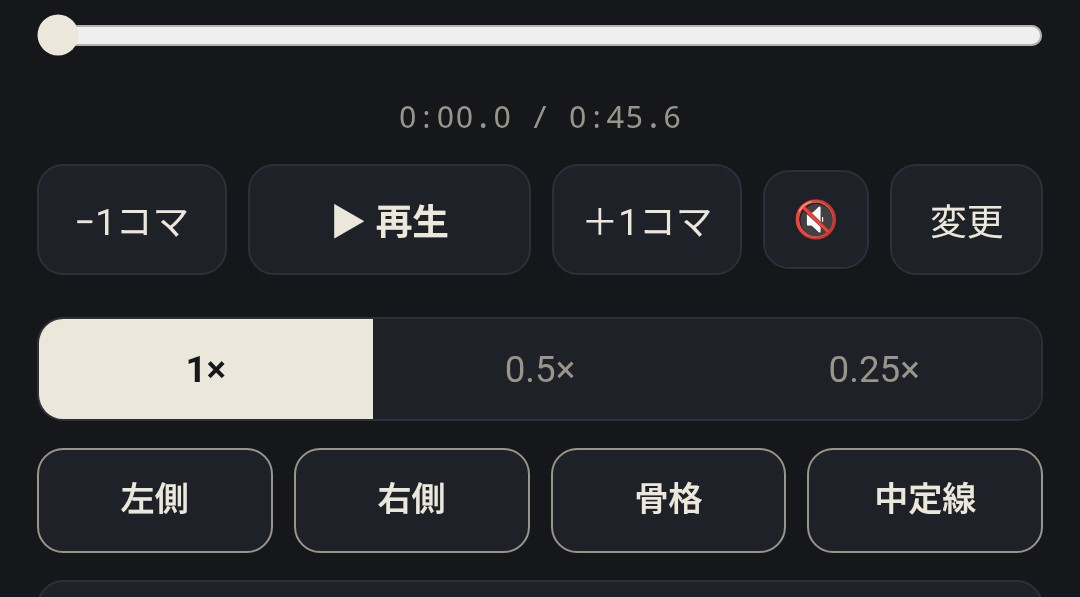
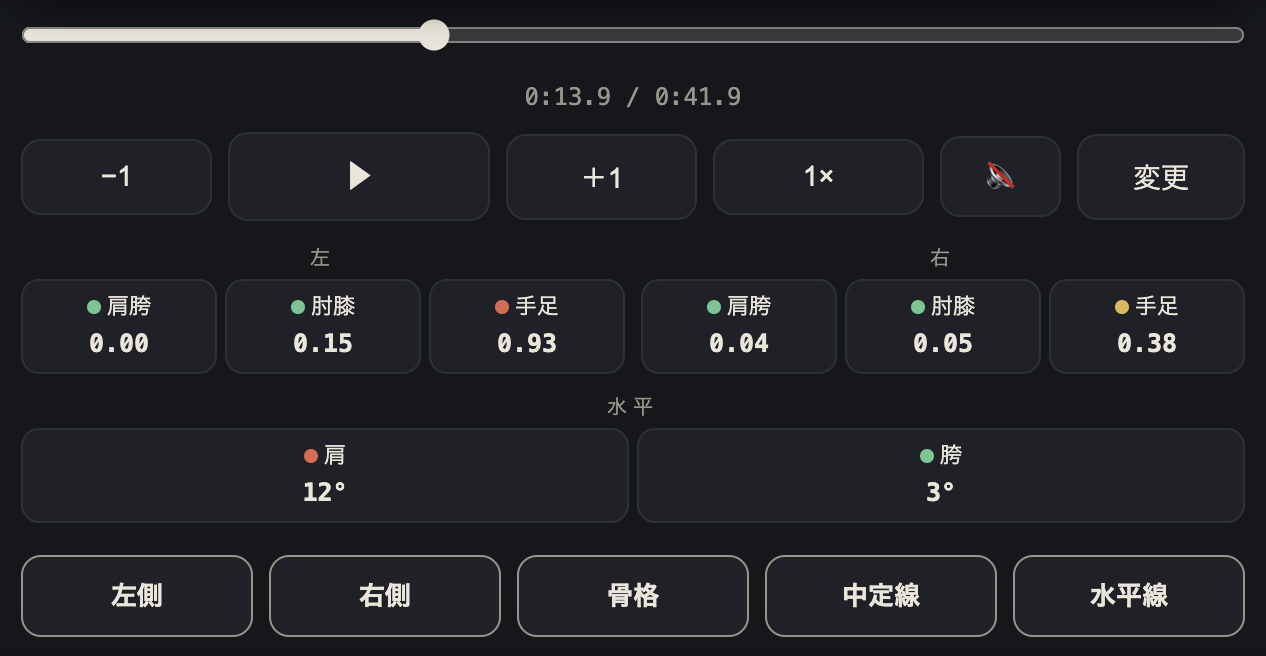
Add files via upload

diff --git a/index.html b/index.html
@@ -31,6 +31,9 @@
     background:linear-gradient(var(--text-dim),transparent);}
   h1{font-family:"Hiragino Mincho ProN","Yu Mincho",serif;
     font-size:22px;font-weight:600;letter-spacing:.14em;}
+  h1 .ver{font-family:ui-monospace,SFMono-Regular,Menlo,monospace;
+    font-size:11px;font-weight:400;letter-spacing:.05em;color:var(--text-dim);
+    vertical-align:middle;margin-left:4px;}
   .subtitle{font-size:11.5px;color:var(--text-dim);letter-spacing:.06em;}
 
   .seg{display:flex;border:1px solid var(--line);border-radius:10px;overflow:hidden;}
@@ -58,9 +61,9 @@
   #singleHost .stage.on{position:sticky;top:8px;z-index:5;
     box-shadow:0 8px 20px rgba(0,0,0,.5);}
 
-  .chips{display:none;gap:8px;margin-bottom:10px;}
+  .chips{display:none;gap:8px;margin-bottom:10px;flex-wrap:wrap;}
   .chips.on{display:flex;}
-  .chipgrp{flex:1;min-width:0;}
+  .chipgrp{flex:1;min-width:calc(50% - 4px);}
   .chipgrp .glabel{font-size:10px;color:var(--text-dim);letter-spacing:.3em;
     text-align:center;margin-bottom:3px;}
   .chipgrp .grow{display:flex;gap:4px;}
@@ -81,7 +84,15 @@
   .ctl{background:var(--surface);border:1px solid var(--line);color:var(--text);
     border-radius:10px;font-size:14px;padding:10px 0;flex:1;cursor:pointer;}
   .ctl:active{background:var(--line);}
-  .ctl.play{flex:1.5;font-weight:700;}
+  .ctl.play{font-weight:700;font-size:15px;}
+  .speedMenu{display:none;position:absolute;bottom:calc(100% + 4px);left:0;right:0;
+    background:var(--surface);border:1px solid var(--line);border-radius:10px;
+    overflow:hidden;z-index:10;box-shadow:0 6px 16px rgba(0,0,0,.5);}
+  .speedMenu.on{display:block;}
+  .speedMenu button{display:block;width:100%;background:none;border:none;
+    color:var(--text-dim);padding:10px 0;font-size:14px;cursor:pointer;}
+  .speedMenu button.active{color:var(--text);font-weight:700;background:var(--line);}
+  .speedBtn{padding:10px 0;}
 
   #gpanel{display:none;}
   #gpanel.on{display:block;}
@@ -108,7 +119,7 @@
 <header>
   <div class="seal">合</div>
   <div class="title-block">
-    <h1>三合鏡</h1>
+    <h1>三合鏡 <span class="ver">ver 1.1</span></h1>
     <div class="subtitle">外三合を映す鏡 — 肩胯・肘膝・手足</div>
   </div>
 </header>
@@ -122,19 +133,6 @@
 <div id="compareHost" style="display:none"></div>
 
 <div id="gpanel">
-  <div class="row">
-    <div class="seg" id="speedSeg" style="flex:1">
-      <button data-s="1" class="active">1×</button>
-      <button data-s="0.5">0.5×</button>
-      <button data-s="0.25">0.25×</button>
-    </div>
-  </div>
-  <div class="row" id="toggles">
-    <div class="tgl active" data-k="left">左側</div>
-    <div class="tgl active" data-k="right">右側</div>
-    <div class="tgl active" data-k="skeleton">骨格</div>
-    <div class="tgl active" data-k="center">中定線</div>
-  </div>
   <details class="calbox">
     <summary>調整 — 基準点(肩窩・胯)</summary>
     <label>肩点の内寄せ(肩窩へ) <output id="vShIn"></output>
@@ -184,7 +182,7 @@ const C = {
   dim:  "rgba(236,231,219,.28)",
 };
 
-const state = { left:true, right:true, skeleton:true, center:true };
+const state = { left:true, right:true, skeleton:true, center:true, level:true };
 
 /* ---- calibration & thresholds (共有・保存) ---- */
 function loadCal() {
@@ -247,6 +245,20 @@ function drawOverlay(ctx, W, H, lm) {
     ctx.lineTo(h[0]+dx*0.7, h[1]+dy*0.7);
     ctx.stroke(); ctx.setLineDash([]);
   }
+  if (state.level) {
+    for (const [i,j] of [[11,12],[23,24]]) {
+      const a = pxOf(lm,i,W,H), b = pxOf(lm,j,W,H);
+      const tilt = Math.abs(Math.atan2(b[1]-a[1], b[0]-a[0]) * 180/Math.PI);
+      const t = Math.min(tilt, 180-tilt);   /* 水平からのズレ */
+      ctx.strokeStyle = t < TILT_GOOD ? C.good : t < TILT_MID ? C.mid : C.bad;
+      ctx.lineWidth = w; ctx.setLineDash([w*3, w*3]);
+      const dx = b[0]-a[0], dy = b[1]-a[1];
+      ctx.beginPath();
+      ctx.moveTo(a[0]-dx*0.25, a[1]-dy*0.25);
+      ctx.lineTo(b[0]+dx*0.25, b[1]+dy*0.25);
+      ctx.stroke(); ctx.setLineDash([]);
+    }
+  }
   for (const side of ["left","right"]) {
     if (!state[side]) continue;
     for (const p of PAIRS) {
@@ -297,18 +309,33 @@ function panelHTML(label) {
       <video playsinline muted preload="metadata"></video>
       <canvas></canvas>
     </div>
-    <div class="chips"></div>
     <div class="transport">
       <input type="range" class="seek" min="0" max="0" step="0.01" value="0">
       <div class="timecode"><span class="tcur">0:00.0</span> / <span class="tdur">0:00.0</span></div>
       <div class="row">
-        <button class="ctl stepBack">−1コマ</button>
-        <button class="ctl play">▶ 再生</button>
-        <button class="ctl stepFwd">＋1コマ</button>
-        <button class="ctl mute" style="flex:.55">🔇</button>
-        <button class="ctl refile" style="flex:.8">変更</button>
+        <button class="ctl stepBack" style="flex:.8">−1</button>
+        <button class="ctl play" style="flex:1.1">▶</button>
+        <button class="ctl stepFwd" style="flex:.8">＋1</button>
+        <div class="speedWrap" style="flex:.9;position:relative">
+          <button class="ctl speedBtn" style="width:100%">1×</button>
+          <div class="speedMenu">
+            <button data-s="1" class="active">1×</button>
+            <button data-s="0.5">0.5×</button>
+            <button data-s="0.25">0.25×</button>
+          </div>
+        </div>
+        <button class="ctl mute" style="flex:.5">🔇</button>
+        <button class="ctl refile" style="flex:.7">変更</button>
       </div>
     </div>
+    <div class="row toggles" style="flex-wrap:wrap">
+      <div class="tgl active" data-k="left">左側</div>
+      <div class="tgl active" data-k="right">右側</div>
+      <div class="tgl active" data-k="skeleton">骨格</div>
+      <div class="tgl active" data-k="center">中定線</div>
+      <div class="tgl active" data-k="level">水平線</div>
+    </div>
+    <div class="chips"></div>
   </div>`;
 }
 
@@ -344,6 +371,20 @@ function createPlayer(host, label, modelKind) {
     chipsEl.appendChild(grp);
     grpRefs[side] = grp;
   }
+  /* 水平線の傾き(度) */
+  const lvlGrp = document.createElement("div");
+  lvlGrp.className = "chipgrp";
+  lvlGrp.innerHTML = `<div class="glabel">水平</div><div class="grow"></div>`;
+  const lvlRow = lvlGrp.querySelector(".grow");
+  const lvlRefs = {};
+  for (const [key,label] of [["sh","肩"],["hip","胯"]]) {
+    const el = document.createElement("div");
+    el.className = "chip";
+    el.innerHTML = `<div class="lab"><span class="dot"></span>${label}</div><div class="num">—</div>`;
+    lvlRow.appendChild(el);
+    lvlRefs[key] = { dot: el.querySelector(".dot"), num: el.querySelector(".num") };
+  }
+  chipsEl.appendChild(lvlGrp);
 
   const P = { video, landmarker:null, ready:false, lm:null, scrubbing:false };
 
@@ -372,6 +413,17 @@ function createPlayer(host, label, modelKind) {
         ref.dot.style.background = ratioColor(r);
       }
     }
+    lvlGrp.style.opacity = state.level ? 1 : .3;
+    const W = canvas.width, H = canvas.height;
+    for (const [key,i,j] of [["sh",11,12],["hip",23,24]]) {
+      const ref = lvlRefs[key];
+      if (!P.lm) { ref.num.textContent = "—"; ref.dot.style.background = "var(--text-dim)"; continue; }
+      const a = pxOf(P.lm,i,W,H), b = pxOf(P.lm,j,W,H);
+      const raw = Math.abs(Math.atan2(b[1]-a[1], b[0]-a[0]) * 180/Math.PI);
+      const t = Math.min(raw, 180-raw);
+      ref.num.textContent = t.toFixed(0) + "°";
+      ref.dot.style.background = t < TILT_GOOD ? C.good : t < TILT_MID ? C.mid : C.bad;
+    }
   }
   function redraw() {
     ctx.clearRect(0,0,canvas.width,canvas.height);
@@ -391,7 +443,7 @@ function createPlayer(host, label, modelKind) {
     tcur.textContent = fmt(video.currentTime);
   }
   function setPlayLabel() {
-    playBtn.textContent = (video.paused||video.ended) ? "▶ 再生" : "❚❚ 停止";
+    playBtn.textContent = (video.paused||video.ended) ? "▶" : "❚❚";
   }
   function loop() {
     detect(); syncSeek();
@@ -442,11 +494,38 @@ function createPlayer(host, label, modelKind) {
     q(".mute").textContent = video.muted ? "🔇" : "🔊";
   });
   q(".refile").addEventListener("click", () => { q(".file").value = ""; q(".file").click(); });
+  const speedBtn = q(".speedBtn"), speedMenu = q(".speedMenu");
+  speedBtn.addEventListener("click", e => {
+    e.stopPropagation();
+    speedMenu.classList.toggle("on");
+  });
+  speedMenu.addEventListener("click", e => {
+    const b = e.target.closest("button"); if (!b) return;
+    video.playbackRate = parseFloat(b.dataset.s);
+    speedBtn.textContent = b.textContent;
+    for (const x of speedMenu.children) x.classList.toggle("active", x===b);
+    speedMenu.classList.remove("on");
+  });
+  document.addEventListener("click", () => speedMenu.classList.remove("on"));
 
-  const player = { video, redraw, pause(){ video.pause(); setPlayLabel(); } };
+  const togRow = q(".toggles");
+  togRow.addEventListener("click", e => {
+    const t = e.target.closest(".tgl"); if (!t) return;
+    const k = t.dataset.k;
+    state[k] = !state[k];
+    syncToggles();
+    for (const p of players) p.redraw();
+  });
+  function syncOwnToggles() {
+    for (const t of togRow.querySelectorAll(".tgl"))
+      t.classList.toggle("active", state[t.dataset.k]);
+  }
+
+  const player = { video, redraw, syncOwnToggles, pause(){ video.pause(); setPlayLabel(); } };
   players.push(player);
   return player;
 }
+function syncToggles() { for (const p of players) p.syncOwnToggles(); }
 
 /* ---- build modes ---- */
 createPlayer($("singleHost"), null, "full");
@@ -460,21 +539,6 @@ $("modeSeg").addEventListener("click", e => {
   $("singleHost").style.display  = m === "single"  ? "" : "none";
   $("compareHost").style.display = m === "compare" ? "" : "none";
   for (const p of players) p.pause();
-});
-
-/* ---- global controls ---- */
-$("speedSeg").addEventListener("click", e => {
-  const b = e.target.closest("button"); if (!b) return;
-  const s = parseFloat(b.dataset.s);
-  for (const x of $("speedSeg").children) x.classList.toggle("active", x===b);
-  for (const p of players) p.video.playbackRate = s;
-});
-$("toggles").addEventListener("click", e => {
-  const t = e.target.closest(".tgl"); if (!t) return;
-  const k = t.dataset.k;
-  state[k] = !state[k];
-  t.classList.toggle("active", state[k]);
-  for (const p of players) p.redraw();
 });
 
 /* ---- calibration & threshold sliders ---- */

diff --git a/manual.html b/manual.html
@@ -49,7 +49,7 @@
 
 <header>
   <div class="seal">合</div>
-  <h1>三合鏡 かんたんマニュアル</h1>
+  <h1>三合鏡 かんたんマニュアル <span style="font-family:ui-monospace,monospace;font-size:12px;font-weight:400;color:var(--text-dim);">ver 1.1</span></h1>
 </header>
 <p class="lead">スマホで撮った套路の動画に、AIが外三合の線を重ねて映す鏡です。アプリのインストールは不要、ブラウザで開くだけ。<b>動画はスマホの外に送信されません。</b>無料です。</p>
 
@@ -62,21 +62,21 @@
 </figure>
 
 <h2>2. 線の見かた</h2>
-<p>動画の上に重なる色付きの線が外三合の三つのペアです。<b>肩胯</b>(肩窩と股関節の奥)、<b>肘膝</b>、<b>手足</b>。それぞれ左右にあります。点線は<b>中定線</b>(肩の中点と胯の中点を結んだ垂線)で、立身中正の目安です。</p>
+<p>動画の上に重なる色付きの線が外三合の三つのペアです。<b>肩胯</b>(肩窩と股関節の奥)、<b>肘膝</b>、<b>手足</b>。それぞれ左右にあります。点線の<b>中定線</b>(肩の中点と胯の中点を結んだ垂線)は立身中正の縦の目安、そして<b>水平線</b>は肩・胯それぞれの左右を結んだ線で、体の左右の傾き(横方向の中定)を見ます。</p>
 <p>色の意味: <i class="dot" style="background:var(--good)"></i>緑=揃っている <i class="dot" style="background:var(--mid)"></i>黄=注意 <i class="dot" style="background:var(--bad)"></i>赤=大きなズレ。</p>
 <figure>
   <img src="manual-02.png" alt="解析中の画面" onerror="this.parentElement.classList.add('missing')">
   <div class="ph">スクショ②<br>套路に線が重なっている画面(緑〜黄が混ざる瞬間だと説明しやすい)</div>
-  <figcaption>② 外三合の線と中定線</figcaption>
+  <figcaption>② 外三合の線・中定線・水平線</figcaption>
 </figure>
-<p>動画の下の小さなカードの数値は、ペアの2点が左右方向にどれだけ離れているかを<b>自分の胴の長さに対する割合</b>で表したものです。0.30なら「胴の3割ぶんズレている」。体格や撮影距離が違っても比べられる物差しです。</p>
+<p>動画の下のカードは補助の数値です。外三合のペア(肩胯・肘膝・手足)は、2点が左右方向にどれだけ離れているかを<b>自分の胴の長さに対する割合</b>で表します(0.30なら胴の3割ぶん)。「水平」の肩・胯は、水平線が水平からどれだけ傾いているかを<b>角度(°)</b>で表します。判断は基本ラインの色で、数値は目安として見てください。</p>
 
 <h2>3. 操作</h2>
-<p>シークバーで好きな場面へ飛べます。<span class="kbd">0.5×</span> <span class="kbd">0.25×</span>のスロー再生と、<span class="kbd">−1コマ</span> <span class="kbd">＋1コマ</span>のコマ送りが主役です。鏡では絶対に見えない「弓歩から後坐へ移る一瞬」を止めて観察できます。左側・右側・骨格・中定線の表示は個別にオンオフできます。</p>
+<p>操作系は動画のすぐ下に一列にまとまっています。シークバーで場面を移動、<span class="kbd">▶</span>で再生/停止、<span class="kbd">−1</span> <span class="kbd">＋1</span>でコマ送り。<span class="kbd">1×</span>を押すと速度メニュー(0.5× / 0.25×)が開きます。鏡では絶対に見えない「弓歩から後坐へ移る一瞬」を止めて観察できるのが強みです。その下のボタン(左側・右側・骨格・中定線・水平線)で、線の表示を個別にオンオフできます。</p>
 <figure>
   <img src="manual-03.png" alt="操作パネル" onerror="this.parentElement.classList.add('missing')">
-  <div class="ph">スクショ③<br>シークバー・コマ送り・速度・表示切替が写った操作部分</div>
-  <figcaption>③ スローとコマ送りが主役</figcaption>
+  <div class="ph">スクショ③<br>操作ボタン・表示切替・数値カードが写った部分</div>
+  <figcaption>③ 操作ボタンと表示切替はここ</figcaption>
 </figure>
 
 <h2>4. 比較モード</h2>
@@ -98,7 +98,7 @@
 </figure>
 
 <h2>6. 撮影のコツ</h2>
-<p>全身(足先から頭まで)が常に画面に入るように。明るい場所で、服と背景の色が違うほど点が安定します。<b>正面から</b>撮ると左右の揃いと中定が、<b>真横から</b>撮ると肘膝の前後の対応が読みやすくなります。数値を比べるときは、同じ角度で撮った動画同士で。</p>
+<p>全身(足先から頭まで)が常に画面に入るように。明るい場所で、服と背景の色が違うほど点が安定します。<b>正面から</b>撮ると左右の揃い・中定線・水平線が読みやすく、<b>真横から</b>撮ると肘膝の前後の対応が読みやすくなります。水平線(肩・胯の傾き)は正面/背面から撮ったときだけ意味を持ちます——真横だと肩や胯が前後に重なって数値が不安定になるので注意。数値を比べるときは、同じ角度で撮った動画同士で。</p>
 
 <h2>7. この鏡が映さないもの</h2>
 <p>AIの点は映像からの推定であり、映すのは体の外側(外三合と功架)だけです。内三合——心と意、意と気、気と力の連動——はカメラには映りません。線が全部緑でも、それが太極拳として正しいかどうかを決めるのは、この鏡ではなく老師と稽古です。道具は道具として、気楽に使ってください。</p>

diff --git a/memo.md b/memo.md
@@ -1,0 +1,71 @@
+# 三合鏡(さんごうきょう)
+
+**現行版: ver 1.1**
+
+外三合を映す鏡 — 薪傳鄭子太極拳の練習動画を解析する個人用アプリ。
+
+スマホで撮影した套路の動画にAIポーズ推定(MediaPipe)を重ね、鏡や内部感覚だけでは確認しづらい **外三合の一致** と **立身中正** を目で確かめるための道具。
+
+- 本体: `index.html` 1ファイル(依存なし、ビルド不要)
+- 動作: スマホ/PCのブラウザのみ。解析は端末内で完結し、動画はどこにも送信されない
+- 費用: ゼロ(GitHub Pages + MediaPipe、いずれも無料)
+
+## このアプリが見るもの・見ないもの
+
+**見るもの(外三合と功架):**
+
+| ペア | 結ぶ点 | 判定 |
+|---|---|---|
+| 肩胯 | 肩窩 ↔ 胯(股関節の奥) ※補正点、下記参照 | 水平ズレ |
+| 肘膝 | 肘 ↔ 膝 | 水平ズレ |
+| 手足 | 手首 ↔ 足首 | 水平ズレ |
+| 中定線 | 肩の中点 ↔ 胯の中点の垂線 | 鉛直からの傾き |
+
+**見ないもの:** 内三合(心与意合・意与気合・気与力合)は映像に映らないため直接は測れない。ただし上下相随・節節貫穿の崩れ(動きのカクつき=断勁のサイン)として間接的に映像に現れうる。将来の拡張候補。
+
+## 設計上の決定事項
+
+**肩窩・胯の補正点。** AIの検出点は体表推定なので、流派の身体観(肩窩、大腿骨頭が骨盤に差し込まれる奥)に合わせ、検出点から体の中心方向へ寄せた補正点を計算して使う。初期値: 肩の内寄せ12% / 胯の内寄せ22% / 胯の沈み5%(胴長比)。アプリ内スライダーで調整でき、端末に保存される。**校正方法:** 正面から撮った動画で、確信をもって坐胯できているコマを静止表示し、点が身体感覚と重なるまでスライダーを合わせる。
+
+**しきい値(調整可能)。** 水平ズレは胴長(肩中点〜胯中点)に対する比で判定: 初期値は 緑 < 0.28 ≤ 黄 < 0.55 ≤ 赤。調整パネルのスライダーで変更でき、端末に保存される。稽古仲間のフィードバックをもとに各自が校正する運用。中定線の傾き: 緑 < 4° ≤ 黄 < 8° ≤ 赤(固定)。
+
+**判定は2Dであることの限界。** 水平方向のズレのみを見るため撮影角度の影響を受ける。左右の対称性・中定は正面から、肘膝の前後対応は真横から撮るのが読みやすい。校正は正面撮りで行う。
+
+**リアルタイム表示は意図的に後回し。** 套路中に画面を見ること自体が意念を散らすため、「打つときは打つ、あとで映像と向き合う」を基本設計とした。
+
+## 技術メモ
+
+- ポーズ推定: MediaPipe Tasks Vision `@mediapipe/tasks-vision@0.10.14`(CDN)、モデルは `pose_landmarker_full`、GPU→CPUフォールバック
+- 検出は再生中フレームごと(`requestVideoFrameCallback`)。タイムスタンプは `performance.now()`(逆方向シーク対策)
+- 全33ランドマーク中、肩11/12・肘13/14・手首15/16・胯23/24・膝25/26・足首27/28 を使用
+- UI: スロー再生(1×/0.5×/0.25×)、±1コマ送り(1/30秒)、シークバー、左右・骨格・中定線の表示切替、ズレ数値チップ
+- 校正値は `localStorage` に保存(キー: `sangokyo-cal`)
+
+## ロードマップ
+
+**第1段階(完了): 37式・体の外三合モード** — 上記すべて。
+
+**第1.2段階(完了): 比較モード** — 単体/比較(2画面)のタブ切替。比較は先生と自分の動画を縦に並べ、それぞれ独立に再生・シーク・±1コマ送りして同じ姿勢で止めて見比べる方式。再生速度・表示切替・校正・しきい値は両画面共通。処理を軽くするため比較モードは軽量モデル(pose_landmarker_lite)を使用。同期再生(基準点合わせ)は将来課題。
+
+**第1.5段階(次): 剣54式モード**
+- 剣尖はポーズ推定では検出不可のため別トラッキング。方式A(推奨): 剣尖付近に蛍光色マーカーを巻き、色追跡。方式B: 最初のフレームで剣尖をタップ指定→映像追跡(高速の剣で外れやすい)
+- 剣筋の可視化: 剣尖の軌跡を残像(長時間露光風の光の線)として描画。軌跡の色を剣尖速度で変え、勁の途切れ(不自然な減速)を浮かび上がらせる
+- 体の外三合の線と剣筋を同時表示し、腰胯の回転と剣の弧の連動を見る
+- モード切替で同一アプリ内に共存。追跡点は増設可能なデータ構造にする
+
+**将来の拡張候補(順不同)**
+- しきい値の実測ベース調整、撮影角度(正面/側面)モードの明示切替
+- 関節速度の滑らかさから断勁的なカクつきを検出
+- 老師の動画との並列比較
+- 太極拳翻訳スキル(taijiquan-translation)の術語対照表と連携した言葉によるフィードバック(例: 沉肩墜肘の崩れの指摘)
+- リアルタイム鏡モード(カメラ入力)
+
+## 変更履歴
+
+**ver 1.1** — 肩・胯の水平線を追加(左右の傾き=中定の横方向のチェック。水平からの傾き角度で色が変わる)。数値チップに肩・胯の傾き角度(°)を追加。操作メニュー(シーク・再生・コマ送り・速度)を動画直下にまとめ、数値チップをその下へ移動。速度切替を各動画ごとに操作可能に。タイトルにバージョン表示。
+
+**ver 1.0** — 最初の配布版。外三合の3ペア(肩胯・肘膝・手足)+中定線、肩窩・胯の補正点と校正スライダー、判定しきい値スライダー、単体/比較(2画面)モード、スロー再生・コマ送り、スクショ付きマニュアル(manual.html)。稽古仲間へ公開。
+
+## 開発の再開方法(メモ)
+
+Claudeとの新しいチャットで、このリポジトリの **公開URLとこのREADME** を伝えれば、どのモデルでも現物のコードを取得して続きから開発できる。ファイルはチャットをまたいで残らないため、**GitHubが常に「正」**。更新は改良版 `index.html` を同名でアップロードして上書き(反映まで1〜2分)。
